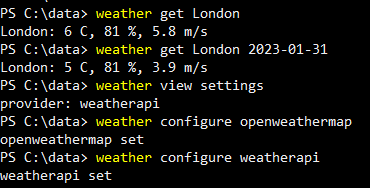
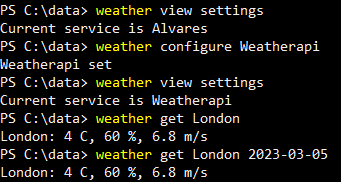
rename `provider` to `service`

diff --git a/tests/invoke_program.rs b/tests/invoke_program.rs
@@ -8,7 +8,7 @@ fn invoke_without_params() {
     let mut cmd = Command::cargo_bin("weather").expect("We have this binary");
 
     let assert = cmd.assert();
-    assert.stdout("Expected format is `weather configure weatherapi` or `weather get London`\n");
+    assert.stdout("Expected format is `weather configure Weatherapi` or `weather get London`\n");
 }
 
 #[test]
@@ -43,7 +43,7 @@ fn invoke_with_unknown_provider() {
     let mut cmd = Command::cargo_bin("weather").expect("We have this binary");
 
     let assert = cmd.arg("configure").arg("Amazon").assert();
-    assert.stdout("Allowed providers are `weatherapi` and `openweathermap`\n");
+    assert.stdout("Allowed services are `Weatherapi` and `Openweathermap`\n");
 }
 
 #[test]
@@ -98,7 +98,7 @@ fn set_provider_and_check_it() {
     let mut cmd = Command::cargo_bin("weather").expect("We have this binary");
 
     let assert = cmd.arg("view").arg("settings").assert();
-    assert.stdout("provider: Alvares\n");
+    assert.stdout("Current service is Alvares\n");
 
     let mut cmd = Command::cargo_bin("weather").expect("We have this binary");
 
@@ -121,13 +121,13 @@ fn invoke_without_api_keys() {
 fn production_set_openweathermap_and_check() {
     let mut cmd = Command::cargo_bin("weather").expect("We have this binary");
 
-    let assert = cmd.arg("configure").arg("openweathermap").assert();
-    assert.stdout("openweathermap set\n");
+    let assert = cmd.arg("configure").arg("Openweathermap").assert();
+    assert.stdout("Openweathermap set\n");
 
     let mut cmd = Command::cargo_bin("weather").expect("We have this binary");
 
     let assert = cmd.arg("get").arg("London").arg("2023-01-01").assert();
-    assert.stdout("This API doesn't support future request\n");
+    assert.stdout("This API does not support future requests\n");
 
     let mut cmd = Command::cargo_bin("weather").expect("We have this binary");
 
@@ -141,8 +141,8 @@ fn production_set_openweathermap_and_check() {
 fn production_set_weatherapi_and_check() {
     let mut cmd = Command::cargo_bin("weather").expect("We have this binary");
 
-    let assert = cmd.arg("configure").arg("weatherapi").assert();
-    assert.stdout("weatherapi set\n");
+    let assert = cmd.arg("configure").arg("Weatherapi").assert();
+    assert.stdout("Weatherapi set\n");
 
     let mut cmd = Command::cargo_bin("weather").expect("We have this binary");
 

diff --git a/src/execution_result.rs b/src/execution_result.rs
@@ -22,7 +22,7 @@ impl Termination for ExecutionResult {
             ExecutionResult::Ok => (),
             ExecutionResult::WrongParams => {
                 println!(
-                    "Expected format is `weather configure weatherapi` or `weather get London`"
+                    "Expected format is `weather configure Weatherapi` or `weather get London`"
                 );
             }
 
@@ -31,7 +31,7 @@ impl Termination for ExecutionResult {
             }
 
             ExecutionResult::WrongConfigureCommandParams => {
-                println!("Allowed providers are `weatherapi` and `openweathermap`");
+                println!("Allowed services are `Weatherapi` and `Openweathermap`");
             }
 
             ExecutionResult::WrongGetCommandParams => {
@@ -39,7 +39,7 @@ impl Termination for ExecutionResult {
             }
 
             ExecutionResult::WeatherProviderError => {
-                println!("Cannot get data from the provider");
+                println!("Cannot get data from the service");
             }
 
             ExecutionResult::CannotSavePreferences => {

diff --git a/src/view_command_executor.rs b/src/view_command_executor.rs
@@ -18,7 +18,7 @@ impl ExecutorChainInterface for ViewCommandExecutor {
             let entity = request.get_parameter();
             if "settings" == entity {
                 match settings.get_provider() {
-                    Ok(provider) => println!("provider: {}", provider),
+                    Ok(provider) => println!("Current service is {}", provider),
                     Err(error) => return error,
                 };
             }

diff --git a/src/main.rs b/src/main.rs
@@ -34,7 +34,7 @@ fn main() -> ExecutionResult {
     };
 
     let settings = Settings {
-        available_providers: ["Gismeteo", "Alvares", "openweathermap", "weatherapi"],
+        available_providers: ["Gismeteo", "Alvares", "Openweathermap", "Weatherapi"],
     };
 
     get_command_executor.execute(&request, &settings)

diff --git a/README.md b/README.md
@@ -4,7 +4,7 @@ Task description is [here](/TASK.md)
 
 Auto-generated documentation is [here](https://spolanyev.github.io/testElastio/test_elastio/all.html)
 
-Crates used: [assert_cmd](https://crates.io/crates/assert_cmd), [chrono](https://crates.io/crates/chrono), [directories](https://crates.io/crates/directories), [dotenvs](https://crates.io/crates/dotenvs), [log](https://crates.io/crates/log), [logtest](https://crates.io/crates/logtest), [openweathermap](https://crates.io/crates/openweathermap), [serial_test](https://crates.io/crates/serial_test), [weer_api](https://crates.io/crates/weer_api).
+The task required me to use appropriate crates, so I opted for: [assert_cmd](https://crates.io/crates/assert_cmd), [chrono](https://crates.io/crates/chrono), [directories](https://crates.io/crates/directories), [dotenvs](https://crates.io/crates/dotenvs), [log](https://crates.io/crates/log), [logtest](https://crates.io/crates/logtest), [openweathermap](https://crates.io/crates/openweathermap), [serial_test](https://crates.io/crates/serial_test), [weer_api](https://crates.io/crates/weer_api).
 
 Patterns used:
 
@@ -17,14 +17,13 @@ Patterns used:
   - [Strategy](src/interfaces/weather_provider_strategy_interface.rs)
 
 The project is done with TDD approach.<br>
-Tests run upon each commit (with GitHub Actions tests run on Windows, Mac and Linux).<br>
+Tests are run on each commit, and GitHub Actions runs tests on Windows, Mac, and Linux.<br>
 Documentation is generated and deployed on each push.
 
 # Usage
 
-An API key is required to access a weather service. The program can retrieve data from [Weather API](https://www.weatherapi.com/) and [OpenWeatherMap](https://openweathermap.org/) services. One can get an API key after registering there.
-
-Keys should be placed in `.env` file near the `weather` executable:
+An API key is required to access a weather service. The program can fetch data from the [Weather API](https://www.weatherapi.com/) and [OpenWeatherMap](https://openweathermap.org/). To obtain an API key, you can register on those websites.
+The keys should be placed in the `.env` file located in the current working directory:
 ```dotenv
 # .env file
 weatherapi=b2172e34d3bc4943992130745111111
@@ -49,11 +48,11 @@ weather view settings
 
 ### Set a service
 ```shell
-weather configure openweathermap
+weather configure Openweathermap
 ```
 or
 ```shell
-weather configure weatherapi
+weather configure Weatherapi
 ```
 
 ![Usage example](https://github.com/spolanyev/testElastio/blob/main/usage-example.png?raw=true)
